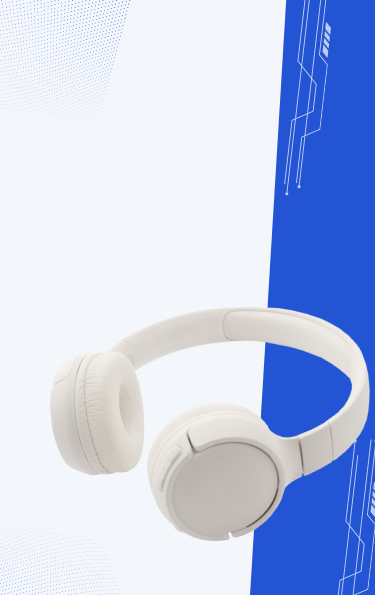
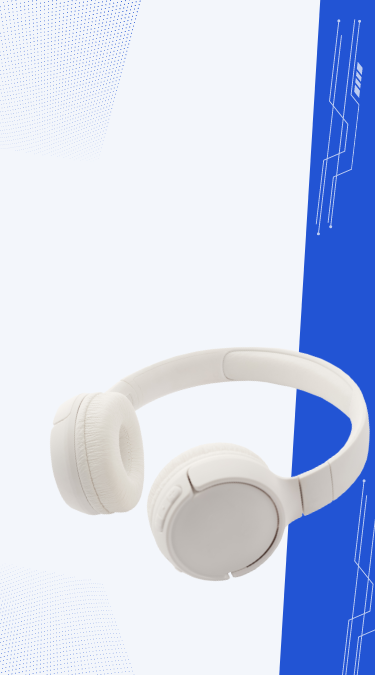
Deixando o projeto no responsivo

diff --git a/src/styles/main.css b/src/styles/main.css
@@ -216,6 +216,10 @@ nav a{
         width: 90%;
         max-width: 900px;
     }
+    #banner .container {
+        width: 90%;
+        max-width: 900px;
+    }
 }
 
 @media only screen and (max-width: 768px) {
@@ -231,7 +235,7 @@ nav a{
         font-size: 40px;
         width: auto;
         text-align: center;
-        width: 230px; /* Centralize o texto */
+        width: 350px; /* Centralize o texto */
     }
 
     #home .container-esq {
@@ -240,7 +244,7 @@ nav a{
     }
 
     #home button {
-        width: 40%; /* Ajuste a largura do botão conforme necessário */
+        width: 50%; /* Ajuste a largura do botão conforme necessário */
     }
     #icones .container {
         flex-direction: row;
@@ -249,7 +253,46 @@ nav a{
     #icones .container{
         gap: 20px;
     }
-    
+    #banner {
+        height: auto;
+        padding: 50px 0;
+        margin: 0 auto;
+        flex-direction: column; /* Adicione algum espaço entre o conteúdo e a borda */
+    }
+
+    #banner .container {
+        flex-direction: column;
+        margin: 50px auto;
+        align-items: center; /* Centralize o conteúdo horizontalmente */
+    }
+
+    #banner h1 {
+        font-size: 40px;
+        width: auto; /* Permita que o texto se ajuste conforme necessário */
+        text-align: center; /* Centralize o texto */
+    }
+
+    #banner p {
+        width: 100%; /* Faça o parágrafo ocupar 80% da largura disponível */
+        text-align: center; /* Centralize o texto */
+    }
+
+    #banner button {
+        max-width: 200px;
+        width: 100%;
+        margin-top: 15px;
+    }
+    #banner .container-esq{
+        margin: 0 auto;
+        display: flex;
+        flex-direction: column;
+        align-items: center;
+        justify-content: center;
+    }
+    #banner .container-dir img {
+        margin-top: 50; 
+        width: 250px;
+    }
 }
 
 @media only screen and (max-width: 576px) {
@@ -268,6 +311,17 @@ nav a{
     }
     #icones .icon-icones p{
         display: none;
+    }
+    #banner h1 {
+        font-size: 30px;
+    }
+
+    #banner p {
+        font-size: 16px;
+    }
+
+    #banner button {
+        width: 100%; /* Faça o botão ocupar toda a largura disponível */
     }
 }
 
